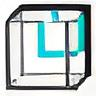
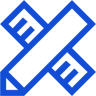
平台看板功能开发

diff --git a/src/api/data-screen/index.ts b/src/api/data-screen/index.ts
@@ -17,7 +17,7 @@ export function getReportKnowledgeList(data: { type: string | number }) {
  */
 export function getReportModuleList(data: { projectId: string | number }) {
   return httpRequest({
-    url: "/cirpoint-base-api/reportinfo/getReportModuleList",
+    url: "/system-service/reportinfo/getReportModuleList",
     method: "POST",
     data,
   });
@@ -52,7 +52,7 @@ export function getReportProjectPhaseList() {
  */
 export function getReportSystemList() {
   return httpRequest({
-    url: "/cirpoint-base-api/reportinfo/getReportSystemList",
+    url: "/system-service/reportinfo/getReportSystemList",
     method: "POST",
   });
 }

diff --git a/src/views/platformBoard/subViews/System/index.vue b/src/views/platformBoard/subViews/System/index.vue
@@ -8,6 +8,7 @@
           <!-- 时间 -->
           <time-clock />
         </header>
+        {{ baseInfo }}
         <main>
           <a-row style="height: 100%; padding: 30px 24px 42px" :gutter="24">
             <a-col :span="8" style="height: 50%">
@@ -82,7 +83,7 @@ const baseInfo = ref({});
 const fetchData = async () => {
   try {
     const res = await getReportSystemList({});
-    if (res.code === "0") {
+    if (res.code == "0" || res.code == 200) {
       console.log(res, 999);
       baseInfo.value = res.data;
     }